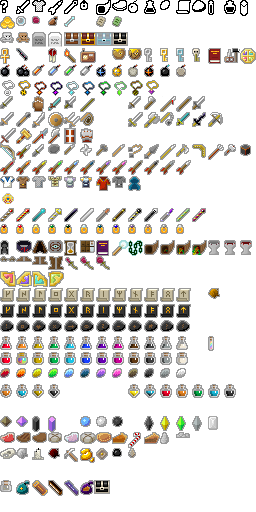
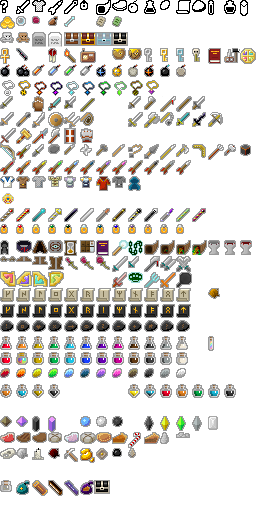
Relic melee weapon

Changed region(s): [[0.4375, 0.5, 0.75, 0.5625]]

diff --git a/core/src/main/java/com/shatteredpixel/cursedpixeldungeon/items/weapon/melee/RelicMeleeWeapons/RelicEnchantments/Inferno.java b/core/src/main/java/com/shatteredpixel/cursedpixeldungeon/items/weapon/melee/RelicMeleeWeapons/RelicEnchantments/Inferno.java
@@ -1,5 +1,6 @@
 package com.shatteredpixel.cursedpixeldungeon.items.weapon.melee.RelicMeleeWeapons.RelicEnchantments;
 
+import com.shatteredpixel.cursedpixeldungeon.actors.Actor;
 import com.shatteredpixel.cursedpixeldungeon.actors.Char;
 import com.shatteredpixel.cursedpixeldungeon.actors.buffs.Buff;
 import com.shatteredpixel.cursedpixeldungeon.actors.buffs.Burning;
@@ -9,32 +10,46 @@ import com.shatteredpixel.cursedpixeldungeon.items.Item;
 import com.shatteredpixel.cursedpixeldungeon.items.weapon.Weapon;
 import com.shatteredpixel.cursedpixeldungeon.items.weapon.enchantments.Blazing;
 import com.shatteredpixel.cursedpixeldungeon.items.weapon.melee.MeleeWeapon;
+import com.shatteredpixel.cursedpixeldungeon.items.weapon.melee.RelicMeleeWeapons.RelicMeleeWeapon;
 import com.shatteredpixel.cursedpixeldungeon.sprites.ItemSprite;
+import com.watabou.utils.PathFinder;
 import com.watabou.utils.Random;
 
-public class Inferno extends Blazing {
+public class Inferno extends RelicEnchantment {
+
+    private static ItemSprite.Glowing ORANGE = new ItemSprite.Glowing( 0xFF4400 );
 
     @Override
-    public int proc(Item weapon, Char attacker, Char defender, int damage ) {
+    public int relicProc(RelicMeleeWeapon weapon, Char attacker, Char defender, int damage ) {
         // lvl 0 - 33%
         // lvl 1 - 50%
         // lvl 2 - 60%
-        int bonusdamage = Random.Int(1,3);
-        if (weapon instanceof MeleeWeapon) {
-            Weapon wep = (MeleeWeapon) weapon;
-            bonusdamage = wep.damageRoll(attacker)/4;
-        }
-        if (defender.buff(Burning.class) != null) {
-            Buff.affect(defender, Burning.class).reignite(defender, 8f);
-            defender.damage(bonusdamage, this);
-        } else {
-            Buff.affect(defender, Burning.class).reignite(defender, 8f);
+        int bonusdamage = weapon.damageRoll(attacker)/5;
+        for (int n : PathFinder.NEIGHBOURS9) {
+            int pos = defender.pos + n;
+            Char enemy = Actor.findChar(pos);
+            if (enemy != null & (Random.Int(2) == 0 | enemy == defender)) {//Guaranteed to burn the target, may burn adjacent mobs as well.
+                if (defender.buff(Burning.class) != null) {
+                    Buff.affect(defender, Burning.class).reignite(defender, 8f);
+                    defender.damage(bonusdamage, this);
+                } else {
+                    Buff.affect(defender, Burning.class).reignite(defender, 8f);
+                }
+            }
         }
 
-        defender.sprite.emitter().burst(FlameParticle.FACTORY, weapon.level()*5);
+
+
+
+        defender.sprite.emitter().burst(FlameParticle.FACTORY, (weapon.level()+3)*3);
 
 
         return damage;
 
+    }
+
+    @Override
+    public ItemSprite.Glowing glowing() {
+        return ORANGE;
     }
 }

diff --git a/core/src/main/java/com/shatteredpixel/cursedpixeldungeon/items/weapon/melee/RelicMeleeWeapons/RelicEnchantments/RelicEnchantment.java b/core/src/main/java/com/shatteredpixel/cursedpixeldungeon/items/weapon/melee/RelicMeleeWeapons/RelicEnchantments/RelicEnchantment.java
@@ -1,0 +1,29 @@
+package com.shatteredpixel.cursedpixeldungeon.items.weapon.melee.RelicMeleeWeapons.RelicEnchantments;
+
+import com.shatteredpixel.cursedpixeldungeon.actors.Char;
+import com.shatteredpixel.cursedpixeldungeon.items.Item;
+import com.shatteredpixel.cursedpixeldungeon.items.weapon.Weapon;
+import com.shatteredpixel.cursedpixeldungeon.items.weapon.melee.RelicMeleeWeapons.RelicMeleeWeapon;
+import com.shatteredpixel.cursedpixeldungeon.sprites.ItemSprite;
+import com.shatteredpixel.cursedpixeldungeon.utils.GLog;
+
+import javax.microedition.khronos.opengles.GL;
+
+public abstract class RelicEnchantment extends Weapon.Enchantment {
+    @Override
+    public int proc(Item weapon, Char attacker, Char defender, int damage) {
+        if (weapon instanceof RelicMeleeWeapon) {
+            return relicProc((RelicMeleeWeapon)weapon,attacker,defender,damage);
+        } else {
+            GLog.w("Inconceivable!");
+            return 0;
+        }
+    }
+
+    public abstract int relicProc(RelicMeleeWeapon weapon, Char attacker, Char defender, int damage);
+
+    @Override
+    public ItemSprite.Glowing glowing() {
+        return null;
+    }
+}

diff --git a/core/src/main/java/com/shatteredpixel/cursedpixeldungeon/actors/hero/HeroClass.java b/core/src/main/java/com/shatteredpixel/cursedpixeldungeon/actors/hero/HeroClass.java
@@ -58,6 +58,7 @@ import com.shatteredpixel.cursedpixeldungeon.items.weapon.melee.Dirk;
 import com.shatteredpixel.cursedpixeldungeon.items.weapon.melee.Gloves;
 import com.shatteredpixel.cursedpixeldungeon.items.weapon.melee.InscribedKnife;
 import com.shatteredpixel.cursedpixeldungeon.items.weapon.melee.MagesStaff;
+import com.shatteredpixel.cursedpixeldungeon.items.weapon.melee.RelicMeleeWeapons.MaracarsBlades;
 import com.shatteredpixel.cursedpixeldungeon.items.weapon.melee.WornShortsword;
 import com.shatteredpixel.cursedpixeldungeon.items.weapon.missiles.ThrowingKnife;
 import com.shatteredpixel.cursedpixeldungeon.items.weapon.missiles.ThrowingStone;
@@ -136,7 +137,8 @@ public enum HeroClass {
 
 		new MagicalHolster().collect();
 		Dungeon.LimitedDrops.MAGICAL_HOLSTER.drop();
-
+		new PotionOfStrength().quantity(10).collect();
+		new MaracarsBlades().identify().collect();
 
 		if (!Dungeon.isChallenged(Challenges.NO_HEALING)) {
 			new PotionOfHealing().quantity(3).collect();

diff --git a/core/src/main/java/com/shatteredpixel/cursedpixeldungeon/items/weapon/melee/RelicMeleeWeapons/RelicMeleeWeapon.java b/core/src/main/java/com/shatteredpixel/cursedpixeldungeon/items/weapon/melee/RelicMeleeWeapons/RelicMeleeWeapon.java
@@ -11,16 +11,19 @@ import com.shatteredpixel.cursedpixeldungeon.utils.GLog;
 import com.watabou.utils.Bundle;
 
 public class RelicMeleeWeapon extends MeleeWeapon {
+    {
+        tier = 6;
+    }
 
     protected Buff passiveBuff;
-    protected int charge = 0;
+    protected int charge = 100;
     protected float partialCharge = 0;
     protected int chargeCap = 100;
     protected int cooldown = 0;
 
     public RelicMeleeWeapon() {
         super();
-        enchant();
+        enchant(enchantment());
     }
 
     @Override

diff --git a/core/src/main/java/com/shatteredpixel/cursedpixeldungeon/items/weapon/melee/RelicMeleeWeapons/MaracarsBlades.java b/core/src/main/java/com/shatteredpixel/cursedpixeldungeon/items/weapon/melee/RelicMeleeWeapons/MaracarsBlades.java
@@ -1,10 +1,14 @@
 package com.shatteredpixel.cursedpixeldungeon.items.weapon.melee.RelicMeleeWeapons;
 
 import com.shatteredpixel.cursedpixeldungeon.items.weapon.melee.RelicMeleeWeapons.RelicEnchantments.Inferno;
+import com.shatteredpixel.cursedpixeldungeon.sprites.ItemSpriteSheet;
 
 public class MaracarsBlades extends RelicMeleeWeapon {
     {
         damageMultiplier = 0.64f;
+        ACC = 0.8f;
+        DLY = 0.5f;
+        image = ItemSpriteSheet.MARACARS_BLADES;
     }
 
     @Override

diff --git a/core/src/main/java/com/shatteredpixel/cursedpixeldungeon/windows/WndBag.java b/core/src/main/java/com/shatteredpixel/cursedpixeldungeon/windows/WndBag.java
@@ -102,10 +102,10 @@ public class WndBag extends WndTabbed {
 	}
 
 	protected static final int COLS_P    = 5;
-	protected static final int COLS_L    = 9;
+	protected static final int COLS_L    = 10;
 	
-	protected static final int SLOT_WIDTH	= 20;
-	protected static final int SLOT_HEIGHT	= 20;
+	protected static final int SLOT_WIDTH	= 22;
+	protected static final int SLOT_HEIGHT	= 22;
 	protected static final int SLOT_MARGIN	= 1;
 	
 	protected static final int TITLE_HEIGHT	= 14;

diff --git a/core/src/main/java/com/shatteredpixel/cursedpixeldungeon/sprites/ItemSpriteSheet.java b/core/src/main/java/com/shatteredpixel/cursedpixeldungeon/sprites/ItemSpriteSheet.java
@@ -417,6 +417,7 @@ public class ItemSpriteSheet {
 	public static final int ARTIFACT_ROSE1      = ARTIFACTS+20;
 	public static final int ARTIFACT_ROSE2      = ARTIFACTS+21;
 	public static final int ARTIFACT_ROSE3      = ARTIFACTS+22;
+	public static final int MARACARS_BLADES     = ARTIFACTS+26;
 	static{
 		assignItemRect(ARTIFACT_CLOAK,      9,  15);
 		assignItemRect(ARTIFACT_ARMBAND,    16, 13);
